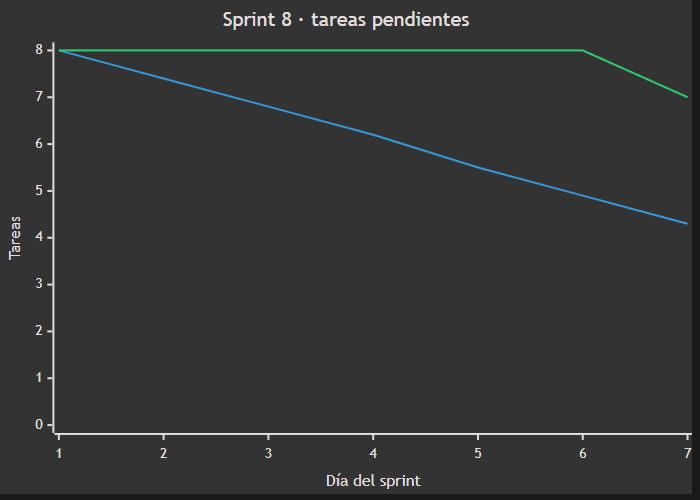
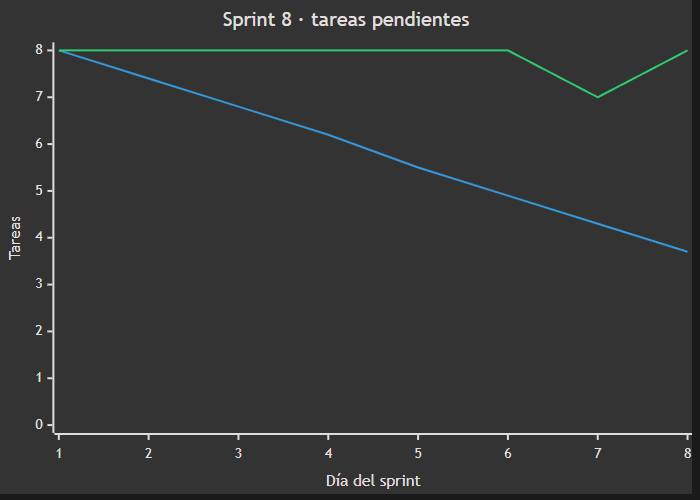
docs: documentación al 17 de noviembre (KAN-33, KAN-38, KAN-23)
- Plan de pruebas: 173 del backend y 31 de la app; M-31, S-18,
  trazabilidad de KAN-38 y los defectos DEF-20 a DEF-22 de la revisión.
- Sprint 8: rediseño visual adelantado (KAN-33), KAN-38 agregada,
  tablero, burndown, daily del 17-nov e IMP-16 (tres PR encadenados).
- CLAUDE.md: regla "Comuna del piloto" y roadmap. DESARROLLO.md 1.8:
  geodatos de OpenStreetMap. README: atribución a OpenStreetMap.
- DESIGN.md y auditoría: qué cubrió el rediseño.

diff --git a/fase-2-desarrollo/docs/scrum/sprint-08.md b/fase-2-desarrollo/docs/scrum/sprint-08.md
@@ -1,7 +1,7 @@
 # Sprint 8 — Dejar el MVP listo para la defensa
 
 > 10 al 23 de noviembre de 2026 · Fase 3 · **Sprint en curso**
-> Corte de este documento: 16 de noviembre de 2026 (día 7 de 14).
+> Corte de este documento: 17 de noviembre de 2026 (día 8 de 14).
 
 ---
 
@@ -18,7 +18,7 @@ de historia. El trabajo se mide en tareas.
 | Duración | 14 días (10 – 23 de noviembre) |
 | Equipo | Lukas Guerrero, desarrollador único |
 | Compromiso | 8 tareas: auditoría y correcciones, rechazo de postulaciones, rediseño visual, despliegue, rendimiento, releases, prueba en teléfonos y documentación |
-| Alcance agregado durante el sprint | KAN-37, el botón "Falta uno" (16 de noviembre) |
+| Alcance agregado durante el sprint | KAN-37, el botón "Falta uno", y KAN-38, el límite real de la comuna con canchas existentes (16 de noviembre) |
 
 El 15 de noviembre se acordó el orden de cierre, en tres etapas: (1) terminar de revisar y dejar todo
 implementado, (2) rediseñar la parte visual y (3) terminar la documentación y estudiar cómo se
@@ -28,15 +28,18 @@ El 16 de noviembre se agregó KAN-37, el botón "Falta uno": faltaba la función
 problema que Kancha resuelve. Ese día también se invirtió el orden de las dos últimas etapas: primero
 se termina la documentación y después se hace el rediseño visual.
 
+Esa misma noche el autor pidió hacer el rediseño de inmediato (KAN-33), con dos skills de diseño y la
+presentación de Fase 1 como referencia, y sumó KAN-38. La documentación queda como última etapa.
+
 ## 2. Sprint Backlog
 
-| Issue | Tipo | Título | Estado al 16-nov |
+| Issue | Tipo | Título | Estado al 17-nov |
 |---|---|---|---|
 | [KAN-31](https://lukasguerrerokancha.atlassian.net/browse/KAN-31) | Tarea | Correcciones de la auditoría de cierre | Listo · PR #15 integrado a `develop` el 16-nov |
 | [KAN-32](https://lukasguerrerokancha.atlassian.net/browse/KAN-32) | Tarea | El organizador puede rechazar una postulación | Listo · PR #15 integrado a `develop` el 16-nov |
 | [KAN-37](https://lukasguerrerokancha.atlassian.net/browse/KAN-37) | Tarea | Botón "Falta uno": filtrar en el mapa los partidos urgentes | En revisión · PR #16 a `develop` · agregada el 16-nov |
-| [KAN-38](https://lukasguerrerokancha.atlassian.net/browse/KAN-38) | Tarea | Límite real de La Florida, canchas existentes al publicar y dirección automática | En revisión · PR #18 a `develop` · agregada el 16-nov · evidencia `evidencias/sprint-08/10` a `12` |
-| [KAN-33](https://lukasguerrerokancha.atlassian.net/browse/KAN-33) | Tarea | Rediseño visual de la app | En revisión · PR #17 a `develop` · adelantado el 16-nov por decisión del autor · evidencia `evidencias/sprint-08/07` a `09` |
+| [KAN-38](https://lukasguerrerokancha.atlassian.net/browse/KAN-38) | Tarea | Límite real de La Florida, canchas existentes al publicar y dirección automática | En revisión · PR #18 a `develop` · agregada el 16-nov · evidencia `evidencias/sprint-08/10` a `12`, `15` y `16` |
+| [KAN-33](https://lukasguerrerokancha.atlassian.net/browse/KAN-33) | Tarea | Rediseño visual de la app | En revisión · PR #17 y PR #18 a `develop` · adelantado el 16-nov por decisión del autor · evidencia `evidencias/sprint-08/07` a `09`, `13` y `14` |
 | [KAN-34](https://lukasguerrerokancha.atlassian.net/browse/KAN-34) | Tarea | Desplegar la demo pública en Render + Supabase | Por hacer · requiere crear las cuentas |
 | [KAN-35](https://lukasguerrerokancha.atlassian.net/browse/KAN-35) | Tarea | Pruebas de rendimiento con k6 (R-01 a R-05) | Por hacer |
 | [KAN-36](https://lukasguerrerokancha.atlassian.net/browse/KAN-36) | Tarea | Llevar `develop` a `main` y publicar los releases | Por hacer |
@@ -53,17 +56,18 @@ Desglose técnico de lo hecho:
 | KAN-31 · CI | Cobertura con umbral; base en hora de Chile; arranque real de `docker compose` | Las pruebas Jest corren en el CI |
 | KAN-32 | `PATCH /participations/:id/reject` con el bloqueo de la aprobación; estado `REJECTED` | Botón "Rechazar" y mensaje al jugador |
 | KAN-37 | `GET /matches/nearby?urgent=true`: solo partidos a los que les falta exactamente 1 jugador y que empiezan dentro de `URGENT_WINDOW_HOURS` (2 h) · tres partidos urgentes en los datos de demostración, uno por deporte | Botón "Falta uno" justo sobre la barra de partidos del mapa, con su contador y su mensaje cuando no hay urgentes |
+| KAN-33 | — | Isotipo de Kancha, Anton en títulos y números clave, hora grande y "Falta 1" en la carta de partido, carta de jugador como carta coleccionable, fotografía por deporte (portada del partido, carta de jugador y entrada) y transiciones entre pantallas |
+| KAN-38 | El seed ubica los 15 partidos dentro de la comuna · `/users/me` responde 401 si el usuario de la sesión ya no existe | Límite real de La Florida en el mapa (OpenStreetMap), lista de canchas existentes al publicar, dirección automática al marcar un punto (Nominatim) y rechazo de puntos fuera de la comuna |
 
 ## 3. Scrumboard
 
-Estado del tablero al 16 de noviembre:
+Estado del tablero al 17 de noviembre:
 
 | Por hacer | En curso | En revisión | Listo |
 |---|---|---|---|
-| KAN-33 · Rediseño visual | KAN-29 · Prueba en teléfonos | KAN-37 · Falta uno | KAN-31 · Auditoría |
-| KAN-34 · Despliegue | KAN-23 · Documentación | | KAN-32 · Rechazar |
-| KAN-35 · Rendimiento | | | |
-| KAN-36 · Releases | | | |
+| KAN-34 · Despliegue | KAN-29 · Prueba en teléfonos | KAN-37 · Falta uno | KAN-31 · Auditoría |
+| KAN-35 · Rendimiento | KAN-23 · Documentación | KAN-33 · Rediseño visual | KAN-32 · Rechazar |
+| KAN-36 · Releases | | KAN-38 · Comuna y canchas | |
 
 ## 4. Burndown Chart
 
@@ -72,16 +76,18 @@ Tareas pendientes por día, hasta el corte (el ideal es la primera línea y el r
 ```mermaid
 xychart-beta
     title "Sprint 8 · tareas pendientes"
-    x-axis "Día del sprint" [1, 2, 3, 4, 5, 6, 7]
+    x-axis "Día del sprint" [1, 2, 3, 4, 5, 6, 7, 8]
     y-axis "Tareas" 0 --> 8
-    line [8, 7.4, 6.8, 6.2, 5.5, 4.9, 4.3]
-    line [8, 8, 8, 8, 8, 8, 7]
+    line [8, 7.4, 6.8, 6.2, 5.5, 4.9, 4.3, 3.7]
+    line [8, 8, 8, 8, 8, 8, 7, 8]
 ```
 
 La línea real se mantuvo en 8 hasta el día 6 porque una tarea solo baja cuando cumple la Definición
 de Terminado, y eso incluye el merge con el CI en verde. El día 7 (16 de noviembre) se integró el
 PR #15: KAN-31 y KAN-32 pasaron a Listo y quedaron 6. Ese mismo día se agregó KAN-37, que deja 7
-tareas pendientes hasta que su PR se integre.
+tareas pendientes hasta que su PR se integre. El día 8 (17 de noviembre) se sumó KAN-38 y quedan 8
+pendientes: tres ya están terminadas y en revisión (KAN-37, KAN-33 y KAN-38) y bajan al integrarse
+sus PR.
 
 ## 5. Daily Meeting
 
@@ -91,6 +97,7 @@ tareas pendientes hasta que su PR se integre.
 | 14 nov | Revisión del avance: 138 pruebas del backend y 19 de la app en verde, build y tipos limpios. Medición de la búsqueda por radio: 100 peticiones, mediana 4 ms y p95 5 ms (12 partidos, un usuario). Auditoría de cierre: seis revisiones independientes y escépticos que intentan refutar cada hallazgo | Revisar los hallazgos y corregir | La sesión se interrumpió antes de terminar la verificación (IMP-13) |
 | 15 nov | Se recuperó el resultado: 71 hallazgos. Los 14 que quedaron sin escéptico se comprobaron a mano. Tres decisiones de negocio: el honor usa tres señales, no se vuelve a postular tras cancelar un cupo pagado, y se agrega "Rechazar". Correcciones de KAN-31 y KAN-32 con 167 pruebas del backend y 26 de la app. Informe de auditoría y documentación al día. PR #15 | Merge del PR #15. Empezar el rediseño visual (KAN-33) | `main` sigue atrás de `develop` (IMP-12) |
 | 16 nov | Merge del PR #15: KAN-31 y KAN-32 a *Listo*. Botón "Falta uno" (KAN-37): la API decide qué es urgente (falta 1 jugador y empieza en 2 h o menos) y el mapa lo filtra; 172 pruebas del backend y 27 de la app. Verificado en la app entrando desde el login, en ancho de celular y de escritorio. PR #16 | Merge del PR #16. Terminar la documentación (KAN-23) y después el rediseño visual (KAN-33) | Docker Desktop no arrancaba (IMP-15) |
+| 17 nov | Noche del 16 al 17. Rediseño visual (KAN-33, PR #17). Límite real de la comuna, canchas existentes y dirección automática (KAN-38, PR #18), con la carta de jugador nueva, fotos por deporte y transiciones. Revisión de incidencias: la demo caía fuera de la comuna (DEF-20), sesión sin usuario tras regenerar los datos (DEF-21), dirección que no habría funcionado en teléfonos (DEF-22) y estado de los chips para lectores de pantalla en la web. 173 pruebas del backend y 31 de la app; publicar un partido eligiendo una cancha, verificado en la app de punta a punta | Merge de los PR #16, #17 y #18, en ese orden. Documentos de la entrega (KAN-23) | Tres PR encadenados sin integrar (IMP-16) |
 
 ## 6. Registro de impedimentos
 
@@ -102,6 +109,7 @@ tareas pendientes hasta que su PR se integre.
 | IMP-13 | La auditoría se interrumpió antes de verificar dos de sus seis dimensiones | 14 hallazgos quedaron sin escéptico | Cerrado el 15-nov: se comprobaron a mano contra el código y en la app |
 | IMP-14 | Al limitar el puerto de la base a `127.0.0.1`, cada conexión nueva tardaba 2 s: en Windows `localhost` se resuelve primero por IPv6 | Una prueba de concurrencia empezó a fallar | Cerrado el 15-nov: el puerto se publica en los dos loopback |
 | IMP-15 | Docker Desktop no arrancaba: quedaron sockets huérfanos de un cierre anterior y el motor no podía renombrarlos | No se pudieron correr las pruebas de integración ni la app en Docker hasta resolverlo | Cerrado el 16-nov: con Docker detenido se apartaron las carpetas `Docker\run` y `docker-secrets-engine`; el motor levantó sin perder imágenes ni volúmenes |
+| IMP-16 | Tres PR abiertos a la vez y encadenados (#16, #17 y #18): cada uno parte de la rama del anterior | Hasta integrarlos en orden, `develop` no tiene el botón "Falta uno", el rediseño ni el límite de la comuna | Abierto |
 
 ## 7. Release
 
@@ -113,12 +121,14 @@ y botón "Falta uno"`.
 
 Se completa al cierre del sprint, el 23 de noviembre. Avance al corte:
 
-| Comprometido | Resultado al 16-nov |
+| Comprometido | Resultado al 17-nov |
 |---|---|
 | KAN-31 — Correcciones de la auditoría | Terminada e integrada (PR #15) · 45 de 71 hallazgos corregidos; informe en [`05-auditoria-cierre.md`](../05-auditoria-cierre.md) |
 | KAN-32 — Rechazar postulación | Terminada e integrada (PR #15) · evidencia en `evidencias/sprint-08/03-aprobar-o-rechazar-KAN32.jpg` |
 | KAN-37 — Botón "Falta uno" (agregada el 16-nov) | Terminada, en revisión (PR #16) · evidencia en `evidencias/sprint-08/04-falta-uno-activo-KAN37.png`, `05` y `06` |
-| KAN-33 a KAN-36, KAN-29 y KAN-23 | Sin terminar |
+| KAN-33 — Rediseño visual | Terminada, en revisión (PR #17 y PR #18) · evidencia en `evidencias/sprint-08/07` a `09`, `13` y `14` |
+| KAN-38 — Comuna, canchas y dirección (agregada el 16-nov) | Terminada, en revisión (PR #18) · evidencia en `evidencias/sprint-08/10` a `12`, `15` y `16` |
+| KAN-34 a KAN-36, KAN-29 y KAN-23 | Sin terminar |
 
 ## 9. Sprint Retrospective
 

diff --git a/fase-2-desarrollo/docs/04-plan-pruebas.md b/fase-2-desarrollo/docs/04-plan-pruebas.md
@@ -2,11 +2,11 @@
 
 > Fase 2 · Evidencia de la competencia **C1** (pruebas de certificación)
 > Cubre los cinco tipos que pide la pauta: unitarias, caja negra, integración, rendimiento y seguridad.
-> Corte del documento: 16 de noviembre de 2026 (Sprint 8).
+> Corte del documento: 17 de noviembre de 2026 (Sprint 8).
 
 Este plan distingue siempre entre lo **ejecutado** (ya corre y pasa) y lo **diseñado** (caso definido,
-se automatiza cuando exista el código que prueba). Al 16 de noviembre están ejecutados los casos de
-las nueve historias del MVP (HU-01 a HU-09) y de las tareas KAN-30, KAN-32 y KAN-37. Siguen sin
+se automatiza cuando exista el código que prueba). Al 17 de noviembre están ejecutados los casos de
+las nueve historias del MVP (HU-01 a HU-09) y de las tareas KAN-30, KAN-32, KAN-37 y KAN-38. Siguen sin
 ejecutar las pruebas de rendimiento y las unitarias pendientes de la sección 4.4.
 
 ---
@@ -29,13 +29,13 @@ recibir en una demo y en un piloto en La Florida.
 
 ## 2. Estrategia por tipo de prueba
 
-| Tipo | Qué responde | Herramienta | Dónde vive | Estado al 16-nov |
+| Tipo | Qué responde | Herramienta | Dónde vive | Estado al 17-nov |
 |---|---|---|---|---|
-| **Unitarias** | ¿Cada regla de negocio calcula bien, aislada? | Vitest 2 en el backend · Jest 30 en la app | `backend/tests/unit/` y `mobile/src/__tests__/` | **87 del backend y 30 de la app, todas pasan** |
+| **Unitarias** | ¿Cada regla de negocio calcula bien, aislada? | Vitest 2 en el backend · Jest 30 en la app | `backend/tests/unit/` y `mobile/src/__tests__/` | **87 del backend y 31 de la app, todas pasan** |
 | **Caja negra** | ¿El sistema responde lo que promete el criterio de aceptación, sin mirar el código? | Vitest + Supertest, Swagger UI | `backend/tests/integration/` | 40 casos, todos cubiertos |
-| **Integración** | ¿API, base de datos y Transbank funcionan juntos? | Vitest + Supertest + PostGIS real | `backend/tests/integration/` | **85 ejecutadas contra PostGIS real, todas pasan** |
+| **Integración** | ¿API, base de datos y Transbank funcionan juntos? | Vitest + Supertest + PostGIS real | `backend/tests/integration/` | **86 ejecutadas contra PostGIS real, todas pasan** |
 | **Rendimiento** | ¿La búsqueda por radio responde rápido con datos reales? | k6, `EXPLAIN ANALYZE` | `backend/tests/performance/` | Diseñadas · se ejecutan en el Sprint 8 |
-| **Seguridad** | ¿Se puede entrar, leer o cobrar lo que no corresponde? | Supertest, `npm audit`, revisión OWASP | `backend/tests/integration/` | 16 de 17 controles verificados; S-11 parcial |
+| **Seguridad** | ¿Se puede entrar, leer o cobrar lo que no corresponde? | Supertest, `npm audit`, revisión OWASP | `backend/tests/integration/` | 17 de 18 controles verificados; S-11 parcial |
 
 Todas las herramientas son gratuitas, coherente con la decisión de costo $0 del proyecto.
 
@@ -63,11 +63,11 @@ Prueban las funciones puras de `services/`, sin base de datos ni HTTP. Se ejecut
 
 | Dato | Valor |
 |---|---|
-| Fecha | 16 de noviembre de 2026 |
+| Fecha | 17 de noviembre de 2026 |
 | Archivos de prueba del backend | 17 (8 unitarios y 9 de integración) |
-| Casos del backend | 172 ejecutados · 172 pasan · 0 fallan (87 unitarias, 85 de integración) |
-| Cobertura de `services/` y `utils/` | 98,93 % de líneas · 91,61 % de ramas · 98,52 % de funciones · el CI la mide en cada push y falla bajo el 80 % |
-| Casos de la app (Jest + React Native Testing Library) | 30 ejecutados · 30 pasan · el CI los corre en cada push desde el 15-nov |
+| Casos del backend | 173 ejecutados · 173 pasan · 0 fallan (87 unitarias, 86 de integración) |
+| Cobertura de `services/` y `utils/` | 98,93 % de líneas · 91,66 % de ramas · 98,52 % de funciones · el CI la mide en cada push y falla bajo el 80 % |
+| Casos de la app (Jest + React Native Testing Library) | 31 ejecutados · 31 pasan · el CI los corre en cada push desde el 15-nov |
 | Comando | `npm test` en `fase-2-desarrollo/backend` (con la base `kancha_test` levantada) y en `fase-2-desarrollo/mobile` |
 
 ### 4.2 Casos ejecutados
@@ -161,6 +161,7 @@ Casos agregados el 16 de noviembre (Sprint 8, botón "Falta uno"):
 | M-26 | `filterStore` | El filtro de nivel parte vacío, se activa y se quita al tocarlo de nuevo | Pasa |
 | M-27 | `filterStore` | "Falta uno" se activa y se apaga; activarlo limpia el día elegido y elegir un día lo apaga (KAN-37) | Pasa |
 | M-28 a M-30 | `lib/places.ts` | El centro de La Florida cae dentro del límite real y Ñuñoa o Santiago centro, fuera; todas las canchas ofrecidas están dentro de la comuna; la dirección se arma con calle y número, y sin calle no se propone nada (KAN-38) | Pasa |
+| M-31 | `lib/places.ts` · `reverseGeocode` | La dirección sale del servicio de OpenStreetMap; si el servicio responde mal o no hay conexión, no se inventa nada y el campo queda para escribirlo (KAN-38, DEF-22) | Pasa |
 
 ### 4.4 Unitarias pendientes
 
@@ -301,6 +302,7 @@ Guiadas por el OWASP API Security Top 10. Cada control se prueba intentando romp
 | S-15 | Acceso a objetos ajenos | Un jugador intenta cerrar su propia asistencia o la de otro | 403 | **Verificado** (`attendance.int.test.ts`, U-71) |
 | S-16 | Manipulación del pago | Anular el pago de otro jugador con su orden de compra, que es predecible | 404, sin tocar el pago | **Verificado** (`payments.int.test.ts`): la vuelta "tiempo agotado" exige el id de sesión aleatorio del pago (DEF-12) |
 | S-17 | Acceso a objetos ajenos | Rechazar una postulación de un partido ajeno | 403 | **Verificado** (`participations.int.test.ts`, U-79) |
+| S-18 | Sesión | Usar la sesión de un usuario que ya no existe (la demo regenera los datos en cada arranque) | 401, y la app vuelve al login | **Verificado** (`auth.int.test.ts`) · comprobado en la app el 17-nov (DEF-21) |
 
 ---
 
@@ -308,7 +310,7 @@ Guiadas por el OWASP API Security Top 10. Cada control se prueba intentando romp
 
 | HU | Historia | Unitarias | Caja negra | Integración | Seguridad |
 |---|---|---|---|---|---|
-| HU-01 | Registro de agente libre | U-01, U-47 a U-54, U-73 a U-75 | CN-01 a CN-03 | I-02 | S-01, S-06, S-07, S-12 |
+| HU-01 | Registro de agente libre | U-01, U-47 a U-54, U-73 a U-75 | CN-01 a CN-03 | I-02 | S-01, S-06, S-07, S-12, S-18 |
 | HU-02 | Carta de jugador | U-01, U-47 a U-49, M-07, M-08, M-18, M-19 | CN-18 | I-09 | S-06 |
 | HU-03 | Publicar partido | U-23 a U-30 | CN-04 a CN-06 | I-03 | S-05 |
 | HU-04 | Buscar partidos cercanos | U-80 a U-82, M-14 a M-16, M-26, M-27 | CN-07 a CN-10, CN-34, CN-39, CN-40 | I-04 | S-04 |
@@ -321,6 +323,7 @@ Guiadas por el OWASP API Security Top 10. Cada control se prueba intentando romp
 | KAN-30 | Asistencia y partidos jugados | U-71 | CN-30 a CN-32 | I-11 | S-15 |
 | KAN-32 | Rechazar postulación | U-79 | CN-37, CN-38 | I-17 | S-17 |
 | KAN-37 | Filtro "Falta uno" (urgentes) | U-80 a U-82, M-27 | CN-39, CN-40 | I-04 | S-04 |
+| KAN-38 | Límite de la comuna, canchas existentes y dirección | M-28 a M-31 | — · verificado a mano en la app (`evidencias/sprint-08/10` a `16`) | — | — |
 
 ---
 
@@ -364,6 +367,9 @@ sección 7 y los diecisiete controles de seguridad de la sección 8.
 | DEF-17 | 14-nov-2026 | Mis partidos mostraba "Esperando al organizador" en un cupo cancelado | Media | Cerrado el 15-nov: cada estado tiene su rótulo; M-22 |
 | DEF-18 | 14-nov-2026 | Marcar "No vino" no pedía confirmación, aunque baja el honor del jugador y no se puede deshacer | Media | Cerrado el 15-nov: pide confirmación y "Asistió" queda marcado |
 | DEF-19 | 14-nov-2026 | Al publicar, un error de la API en el costo no se mostraba y el botón parecía no hacer nada (HU-03) | Baja | Cerrado el 15-nov: el error se muestra en el campo y hay un aviso general |
+| DEF-20 | 17-nov-2026 | Siete de los 15 partidos de demostración caían fuera de La Florida: el punto central del seed y de la app estaba en el borde poniente de la comuna. Quedó a la vista al dibujar el límite real (KAN-38) | Media | Cerrado el 17-nov: punto interior y desplazamientos al 70 %. Comprobado contra la API: 15 de 15 dentro del límite |
+| DEF-21 | 17-nov-2026 | Tras regenerar los datos de la demo, una sesión abierta seguía entrando con un usuario que ya no existía: `/users/me` respondía 404 y la app no cerraba la sesión | Media | Cerrado el 17-nov: responde 401 y la app valida la sesión al entrar (S-18) |
+| DEF-22 | 17-nov-2026 | La dirección automática usaba `AbortSignal.timeout`, que React Native no trae: en un teléfono nunca se habría completado (KAN-38) | Media | Cerrado el 17-nov, antes de integrarse: el límite de tiempo se arma con `AbortController` (M-31). Falta verlo en un teléfono real |
 
 Cada defecto nuevo se registra aquí con fecha, pasos para reproducirlo y la historia afectada, y
 se enlaza a su issue en Jira.
@@ -377,4 +383,4 @@ Las capturas del CI en verde, los reportes de cobertura y los resultados de k6 s
 
 ---
 
-*Kancha · Portafolio de Título · Lukas Guerrero · Sprint 8 · actualizado el 16 de noviembre de 2026*
+*Kancha · Portafolio de Título · Lukas Guerrero · Sprint 8 · actualizado el 17 de noviembre de 2026*

diff --git a/DESARROLLO.md b/DESARROLLO.md
@@ -8,7 +8,7 @@
 > `DESIGN.md` manda en todo lo visual. Jira manda en el estado real de sprints e historias.
 > Si encuentras una contradicción entre dos de ellos, no la resuelvas por tu cuenta: repórtala.
 >
-> Versión 1.7 — 16 de noviembre de 2026 · Lukas Guerrero · Portafolio de Título, Ingeniería en Informática
+> Versión 1.8 — 17 de noviembre de 2026 · Lukas Guerrero · Portafolio de Título, Ingeniería en Informática
 
 ---
 
@@ -40,6 +40,7 @@ Estas cuatro decisiones ya están tomadas. No se revisan durante el desarrollo s
 | Estilos | StyleSheet de RN + tokens de `DESIGN.md` | — | Libre |
 | Mapa (móvil) | `react-native-maps` | incluido en Expo Go | Libre |
 | Mapa (web) | `maplibre-gl` + tiles oscuros de OpenFreeMap / CARTO | 5.x | Libre, sin API key |
+| Geodatos | Límite de La Florida y canchas con nombre, de OpenStreetMap, empaquetados en la app (`mobile/src/data/laFlorida.json`) · dirección de un punto con Nominatim | — | Libre (ODbL), sin API key |
 | Geolocalización | `expo-location` | — | Libre |
 | Notificaciones push | `expo-notifications` + Expo Push API | — | Libre |
 | Tipografías | Anton + Roboto vía `@expo-google-fonts` | — | Libre |
@@ -741,7 +742,7 @@ Respeta el roadmap de `CLAUDE.md`. Este es el detalle técnico de cada sprint.
 | **5** | 29 sep–12 oct | **Sin incremento de producto** (impedimento laboral, IMP-09). Documentación de la Fase 2 (KAN-23). HU-01 y HU-03 pasan al Sprint 6 |
 | **6** | 13–26 oct | **Hecho.** HU-01, HU-03, HU-04, HU-05. Auth JWT, registro y login; `POST /matches` con PostGIS; `matching.service` con búsqueda por radio y postulación sin sobreventa; mapa nativo y web con filtro de 3 deportes; Swagger publicado |
 | **7** | 27 oct–09 nov | **Hecho.** HU-08, HU-09: Webpay Plus en Integración, comprobante, reembolso y retención. Expo SDK 58 para iPhone y Android (KAN-29) y DEF-05. **Adelantadas del Sprint 8:** HU-02, HU-06, HU-07: calificación con ventana de 48 h, honor recalculado con bloqueo de fila y carta de jugador pública. KAN-30: registro de asistencia y partidos jugados |
-| **8** | 10–23 nov | **Hecho al 16-nov:** auditoría de cierre y sus correcciones (KAN-31: pagos, integración, CI con cobertura y arranque real, límite de login S-12, DEF-07 a DEF-19), rechazo de postulaciones (KAN-32) y botón "Falta uno" para los partidos urgentes (KAN-37). **Pendiente:** documentación de cierre (KAN-23) y, después, rediseño visual (KAN-33), despliegue en Render + Supabase (KAN-34), pruebas de rendimiento con k6 (KAN-35), `develop` a `main` y releases (KAN-36), dependencias con versiones mayores (S-11) y prueba en iPhone y Android (KAN-29) |
+| **8** | 10–23 nov | **Hecho al 17-nov:** auditoría de cierre y sus correcciones (KAN-31: pagos, integración, CI con cobertura y arranque real, límite de login S-12, DEF-07 a DEF-19), rechazo de postulaciones (KAN-32), botón "Falta uno" para los partidos urgentes (KAN-37), rediseño visual (KAN-33) y límite real de la comuna con canchas existentes y dirección automática (KAN-38). **Pendiente:** documentación de cierre (KAN-23), despliegue en Render + Supabase (KAN-34), pruebas de rendimiento con k6 (KAN-35), `develop` a `main` y releases (KAN-36), dependencias con versiones mayores (S-11) y prueba en iPhone y Android (KAN-29) |
 | **9** | 24 nov–07 dic | **Cierre de C1:** suite completa, cobertura, `fase-2-desarrollo/docs/evidencias/`. README final, video de respaldo, ensayo de la defensa. Congelar `main`. Tag `v1.0.0` |
 
 > **Replanificación del 27 de septiembre de 2026.** El Sprint 4 se usó en dejar operativo el ambiente y

diff --git a/CLAUDE.md b/CLAUDE.md
@@ -122,7 +122,9 @@ La columna Sprint refleja la replanificación del 8 de noviembre de 2026, vigent
 la tarea **KAN-30** implementó la regla "Partidos jugados" (registro de asistencia), que ninguna
 historia cubría; **KAN-31** corrigió los defectos de la auditoría de cierre del 14 de noviembre
 (`fase-2-desarrollo/docs/05-auditoria-cierre.md`), **KAN-32** agregó el rechazo de postulaciones y
-**KAN-37** el botón "Falta uno", que deja en el mapa solo los partidos urgentes.
+**KAN-37** el botón "Falta uno", que deja en el mapa solo los partidos urgentes. **KAN-33** rediseñó la
+interfaz y **KAN-38** dibuja el límite real de La Florida, ofrece canchas existentes al publicar y
+completa la dirección.
 
 ### Reglas de negocio transversales (aplican a varias HU)
 
@@ -168,6 +170,10 @@ Falta uno urgente Un partido es urgente si le falta exactamente 1 jugador y empi
                   (URGENT_WINDOW_HOURS). El botón "Falta uno" del mapa muestra solo esos. Lo decide
                   la API, no la pantalla. (KAN-37)
 
+Comuna del piloto El mapa dibuja el límite real de La Florida (OpenStreetMap). Al publicar se elige
+                  una cancha existente o se marca un punto dentro de la comuna, y la dirección se
+                  propone sola. Lo valida la app: la API aún acepta cualquier coordenada. (KAN-38)
+
 Partidos jugados  matchesPlayed se incrementa al cerrar una participación como asistida. Se muestra
                   en la carta de jugador. Al terminar el partido, el organizador marca a cada
                   confirmado como "asistió" o "no se presentó" (NO_SHOW), una sola vez; la tasa
@@ -189,7 +195,7 @@ Las fechas coinciden con los sprints reales del tablero Jira (board 2).
 | 5 | 29 sep–12 oct 2026 | Sin incremento de producto (impedimento laboral) · documentación de la Fase 2 (KAN-23) | Fase 2 |
 | 6 | 13–26 oct 2026 | Hecho: HU-01, HU-03, HU-04, HU-05 — registro, publicación, búsqueda en el mapa y postulación | Fase 2 |
 | 7 | 27 oct–09 nov 2026 | Hecho: HU-08, HU-09 — pago fraccionado y retención · adelantadas HU-02, HU-06, HU-07 — carta, calificación y honor · KAN-29 (Expo SDK 58) · KAN-30 (asistencia) | Fase 2 |
-| 8 | 10–23 nov 2026 | Hecho: auditoría de cierre y sus correcciones (KAN-31) · rechazo de postulaciones (KAN-32) · botón "Falta uno" (KAN-37) · pendiente: documentación (KAN-23) y, después, rediseño visual (KAN-33), despliegue en Render + Supabase (KAN-34), pruebas de rendimiento (KAN-35), releases (KAN-36) y prueba en iPhone y Android (KAN-29) | Fase 3 |
+| 8 | 10–23 nov 2026 | Hecho: auditoría de cierre y sus correcciones (KAN-31) · rechazo de postulaciones (KAN-32) · botón "Falta uno" (KAN-37) · rediseño visual (KAN-33) · límite real de la comuna, canchas existentes y dirección automática (KAN-38) · pendiente: documentación (KAN-23), despliegue en Render + Supabase (KAN-34), pruebas de rendimiento (KAN-35), releases (KAN-36) y prueba en iPhone y Android (KAN-29) | Fase 3 |
 | 9 | 24 nov–07 dic 2026 | Cierre de pruebas C1 · README final, video de respaldo, ensayo y defensa ante la comisión | Fase 3 |
 
 > **Replanificación del 27 de septiembre de 2026.** El Sprint 4 cerró con 0 de 8 puntos: se usó en
@@ -297,4 +303,4 @@ funcionamiento.
 ---
 
 *Portafolio de Título — Ingeniería en Informática · Sede Plaza Vespucio · Lukas Guerrero · 2026*
-*Última actualización: 16 de noviembre de 2026 (Sprint 8)*
+*Última actualización: 17 de noviembre de 2026 (Sprint 8)*

diff --git a/fase-2-desarrollo/docs/05-auditoria-cierre.md b/fase-2-desarrollo/docs/05-auditoria-cierre.md
@@ -170,9 +170,11 @@ se comprobó leyendo el código, sin escéptico automático.
 
 ## 5. Backlog visual para la etapa 2
 
-> **Nota del 16 de noviembre.** El orden de cierre cambió: primero se termina la documentación y
-> después se hace el rediseño visual. Lo que este informe llama "etapa 2" pasa a ser la última etapa.
-> La lista sigue vigente tal cual. Ese día se agregó además el botón "Falta uno" del mapa (KAN-37).
+> **Nota del 17 de noviembre.** El rediseño visual (KAN-33) se hizo entre el 16 y el 17 de noviembre.
+> De esta lista cubrió: el isotipo en el encabezado y en la entrada, el "Falta 1" visible en la carta
+> de partido, la fotografía de la entrada y el alto de chips (40 px) y botones (56 px). Lo demás sigue
+> pendiente. Esos días se agregaron además el botón "Falta uno" (KAN-37) y el límite real de la comuna
+> con canchas existentes (KAN-38).
 
 La revisión de la interfaz entregó además esta lista priorizada. No son defectos: son mejoras para
 el rediseño visual. Las marcadas **Hecho** se resolvieron al corregir un defecto.
@@ -197,7 +199,7 @@ el rediseño visual. Las marcadas **Hecho** se resolvieron al corregir un defect
 | Baja | S | Rutas inexistentes | Agregar app/+not-found.tsx con la marca de Kancha y un ErrorBoundary global. | No existe ninguno: la pantalla por defecto de Expo Router es negra, está en inglés y lleva branding de Expo. Es un detalle menor pero fácil. |
 | Baja | S | Detalle de partido (barra inferior) | Reemplazar el paddingBottom fijo de 220 px del ScrollView por la altura real de la barra de CTA medida con onLayout. | Con estado aprobado, pago, error y botón de cancelar a la vez, la barra puede superar 220 px y tapar la última línea del contenido. |
 | Baja | S | Web ancho (login y registro) | Medir el hero a 900-1000 px de ancho y bajar el tamaño de Anton o ajustar el breakpoint si el titular se superpone al formulario. | A 900 px el hero (flexShrink 1) queda con unos 290-310 px, y 'CAMISETA.' en Anton 128 px mide probablemente más. Es una estimación sin medir, pero conviene mirarlo en el proyector. |
-| Media | S | Chips y botón "Falta uno" en la web | Publicar el estado activo con `aria-selected` o `aria-pressed`, además de `accessibilityState`. | Encontrado el 16-nov al verificar KAN-37 en el navegador: los chips y el botón no exponen ningún atributo `aria-*` de estado, así que en la web un lector de pantalla no distingue un filtro activo de uno inactivo. No se probó con lector de pantalla en el teléfono. |
+| Media | S | Chips y botón "Falta uno" en la web | **Hecho el 17-nov.** Publicar el estado activo con `aria-selected` o `aria-pressed`, además de `accessibilityState`. | Encontrado el 16-nov al verificar KAN-37 en el navegador: los chips y el botón no exponen ningún atributo `aria-*` de estado, así que en la web un lector de pantalla no distingue un filtro activo de uno inactivo. No se probó con lector de pantalla en el teléfono. |
 
 ---
 

diff --git a/fase-2-desarrollo/docs/README.md b/fase-2-desarrollo/docs/README.md
@@ -12,7 +12,7 @@
 | Modelo relacional normalizado | [01-modelo-datos.md](01-modelo-datos.md) · normalización en la [sección 6](01-modelo-datos.md#6-normalización) | Listo · seis migraciones |
 | Diagrama de clases | [02-diagramas-uml.md](02-diagramas-uml.md#7-diagrama-de-clases--modelo-de-dominio), secciones 7 y 8 | Listo · corresponde al código del 16-nov |
 | Diagramas de secuencia de las funcionalidades principales | [02-diagramas-uml.md](02-diagramas-uml.md), secciones 2, 3 y 4 | Listo · búsqueda, pago y honor como quedaron implementados |
-| Plan de pruebas (unitarias, caja negra, integración, rendimiento, seguridad) | [04-plan-pruebas.md](04-plan-pruebas.md) | 172 pruebas del backend y 30 de la app, todas pasan · cobertura del 98,9 %, medida por el CI · rendimiento pendiente |
+| Plan de pruebas (unitarias, caja negra, integración, rendimiento, seguridad) | [04-plan-pruebas.md](04-plan-pruebas.md) | 173 pruebas del backend y 31 de la app, todas pasan · cobertura del 98,9 %, medida por el CI · rendimiento pendiente |
 | Auditoría de cierre (no la pide la pauta; es evidencia adicional de C1) | [05-auditoria-cierre.md](05-auditoria-cierre.md) | 71 hallazgos verificados · 45 corregidos · backlog visual para el rediseño |
 
 Además: diagrama de casos de uso y diagrama de estados del partido en

diff --git a/fase-2-desarrollo/docs/scrum/README.md b/fase-2-desarrollo/docs/scrum/README.md
@@ -11,7 +11,7 @@ Retrospective.
 | 5 | 29 sep – 12 oct 2026 | HU-01 y HU-03 | 0 de 8 puntos · impedimento laboral · historias al Sprint 6 | [sprint-05.md](sprint-05.md) |
 | 6 | 13 – 26 oct 2026 | HU-01, HU-03, HU-04 y HU-05 | 16 de 19 puntos · HU-05 se cerró el 5 de noviembre | [sprint-06.md](sprint-06.md) |
 | 7 | 27 oct – 9 nov 2026 | HU-08 y HU-09 | 13 de 13 puntos, más 15 adelantados del Sprint 8 (HU-02, HU-06, HU-07) y KAN-30 | [sprint-07.md](sprint-07.md) |
-| 8 | 10 – 23 nov 2026 | Dejar el MVP listo para la defensa | En curso · auditoría de cierre, sus correcciones (KAN-31), rechazo de postulaciones (KAN-32) y botón "Falta uno" (KAN-37) al 16 de noviembre | [sprint-08.md](sprint-08.md) |
+| 8 | 10 – 23 nov 2026 | Dejar el MVP listo para la defensa | En curso · auditoría de cierre, sus correcciones (KAN-31), rechazo de postulaciones (KAN-32) botón "Falta uno" (KAN-37), rediseño visual (KAN-33) y límite real de la comuna con canchas existentes (KAN-38) al 17 de noviembre | [sprint-08.md](sprint-08.md) |
 | 9 | 24 nov – 7 dic 2026 | Cierre de pruebas y defensa | Planificado | — |
 
 Los sprints 1 y 2 corresponden a la Fase 1. Desde el Sprint 8 no quedan historias por desarrollar: el

diff --git a/DESIGN.md b/DESIGN.md
@@ -9,7 +9,10 @@
 > atenerse a este documento, conservando solo la paleta de la sección 2. Donde el código y este
 > documento difieran, manda el código: esquinas de 20 px en las cartas, Anton en títulos de pantalla y
 > en los números clave (hora, honor, partidos jugados), el isotipo junto al nombre, el deporte en una
-> baldosa naranja y el "Falta 1 »" visible en cada carta de partido. Las referencias fueron la
+> baldosa naranja y el "Falta 1 »" visible en cada carta de partido. Después se sumaron fotografía en blanco
+> y negro por deporte (portada del partido, carta de jugador y pantallas de entrada), la carta de
+> jugador como carta coleccionable con el honor sobre naranja y transiciones entre pantallas. Las
+> referencias fueron la
 > presentación de Fase 1 y un tablero de identidades deportivas en negro y naranja.
 
 ## 1. Identidad de Marca

diff --git a/README.md b/README.md
@@ -73,6 +73,9 @@ local (`DEMO_MODE` en `docker-compose.yml`) y no ocurre en un despliegue real.
 
 La notificación de cupo disponible (HU-10) quedó fuera del alcance del MVP el 8 de noviembre de 2026.
 
+Los datos geográficos (límite de la comuna, canchas y direcciones) son de © colaboradores de
+[OpenStreetMap](https://www.openstreetmap.org/copyright), bajo licencia ODbL.
+
 ## Estructura del repositorio
 
 Una carpeta por cada fase del Portafolio de Título.
